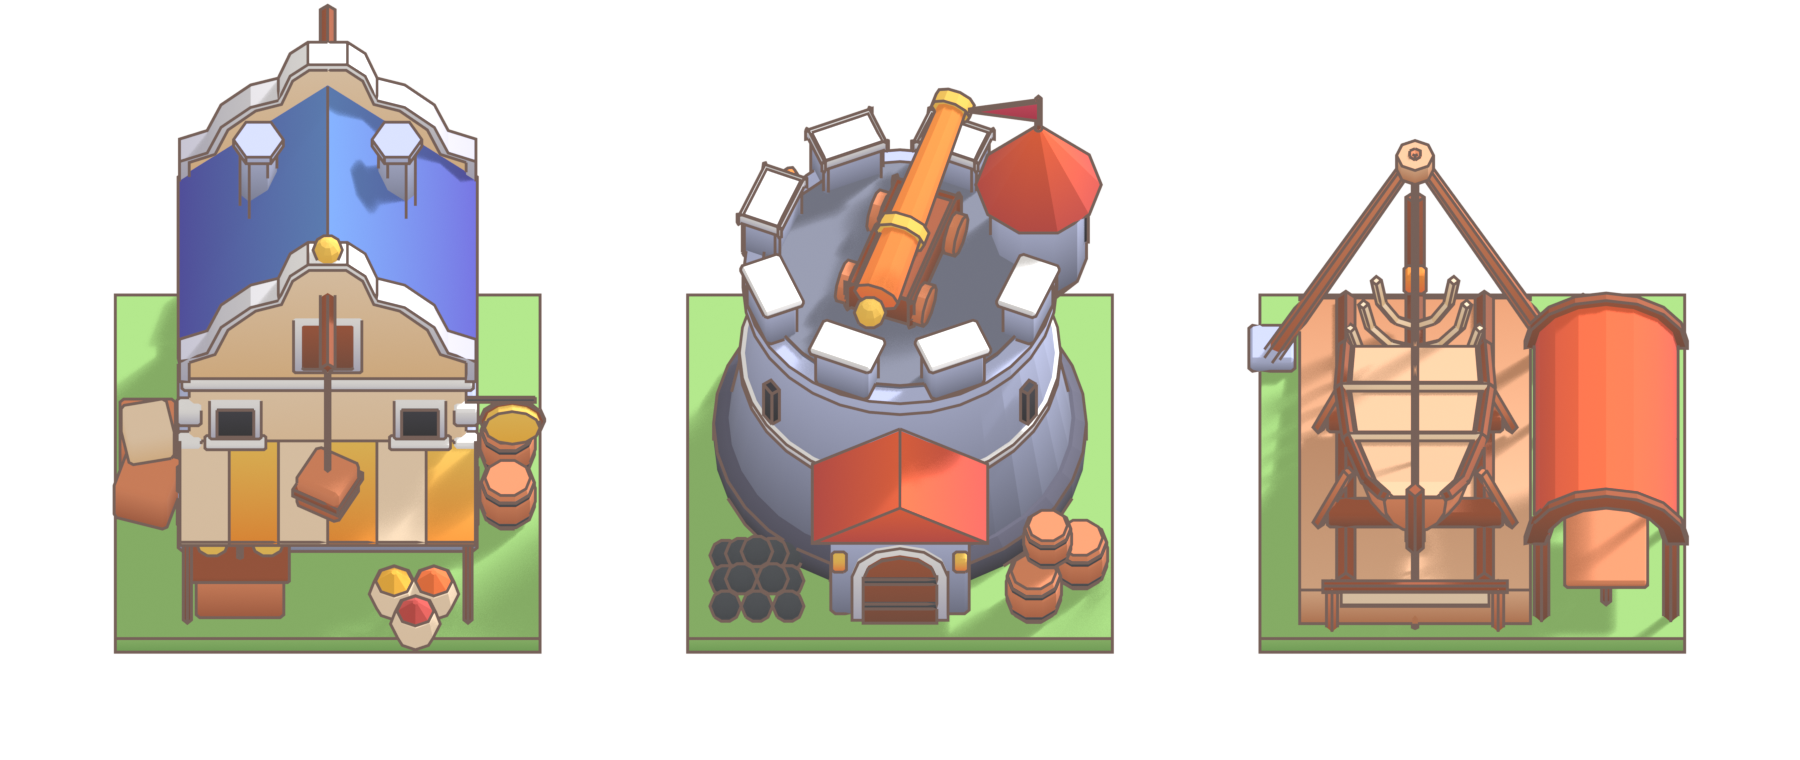
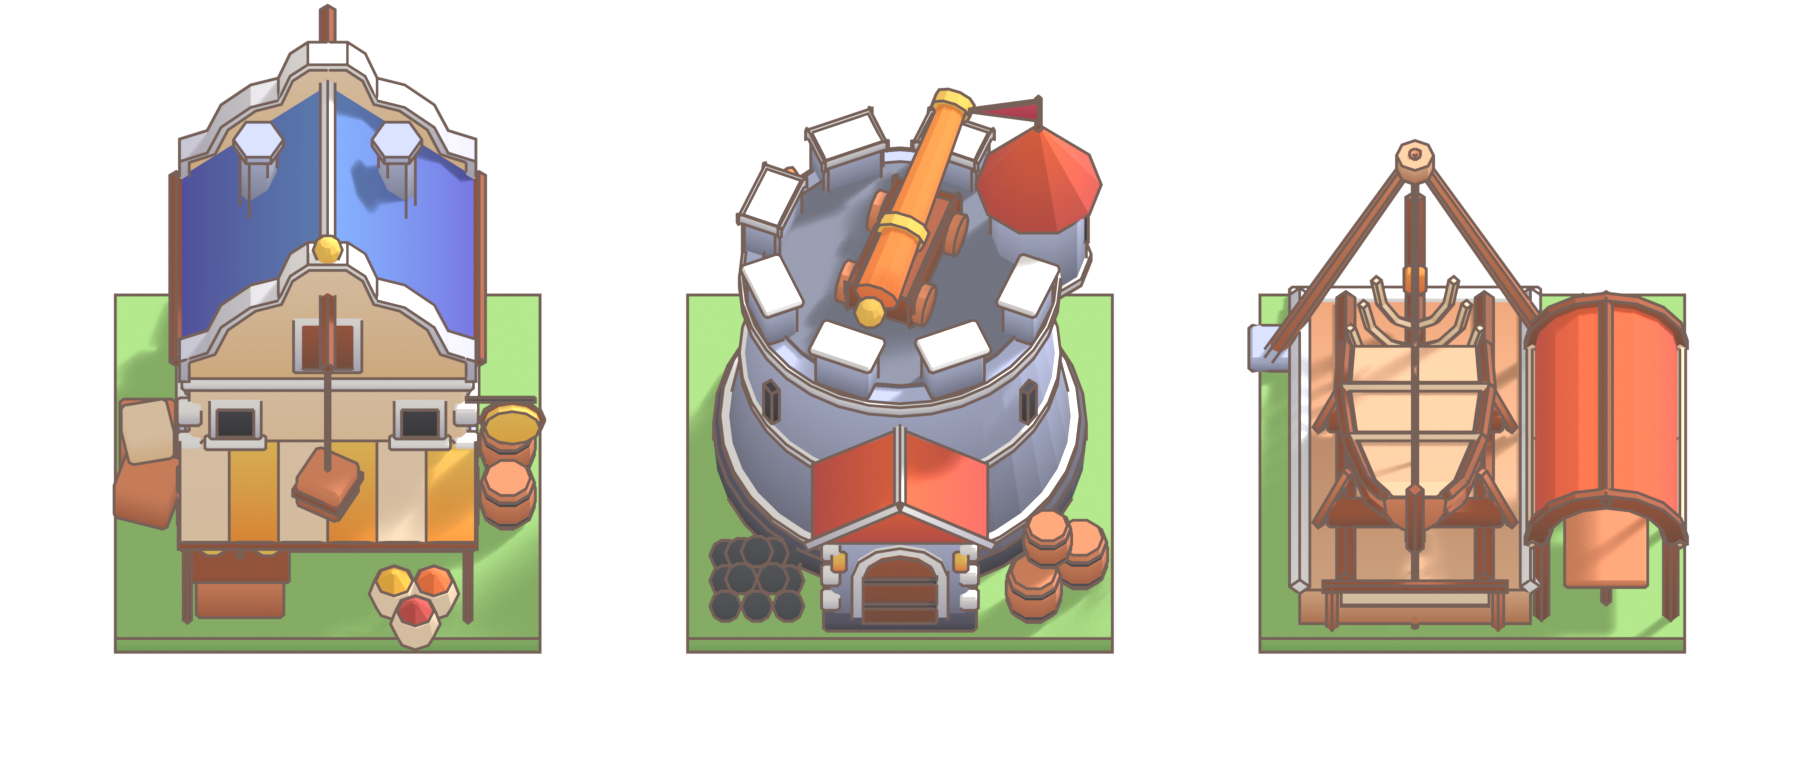
docs: trim the edges of the three V0.8 building blockouts
Pale cornice and plinth cap on the tower, verges and corner stones on its gatehouse, curbs down the slip, a wale on
the hull, ridge boards, eaves, corner stones and framed flank windows on the tradehouse. Same-camera before/after in
docs/art/blockouts/facilities/.

diff --git a/scripts/blender/blockout-facilities.py b/scripts/blender/blockout-facilities.py
@@ -133,6 +133,13 @@ def repairyard(cx):
         box(f"{n}-cradle{k}", (hx, slope(z) + 0.3, z), (1.9, 0.26, 0.24), "woodDark", bevel=0.03)
         for s in (-1, 1):
             beam(f"{n}-shore{k}{s}", (hx + s * 1.05, slope(z) + 0.1, z), (hx + s * 0.72, slope(z) + 1.05, z), 0.12, "wood", sides=4)
+    # Trims: a pale stone curb down each edge of the slip, a dark wale along the hull, a ridge board on the shed.
+    for s in (-1, 1):
+        beam(f"{n}-curb{s}", (hx + s * 1.25, slope(-2.1) + 0.06, -2.1), (hx + s * 1.25, slope(2.2) + 0.06, 2.2), 0.22, "marble", sides=4)
+        for k in range(len(stations) - 1):
+            (z0, h0, d0), (z1, h1, d1) = stations[k], stations[k + 1]
+            beam(f"{n}-wale{s}{k}", (hx + s * h0 * 0.93, top(z0, d0) - 0.45 * d0, z0), (hx + s * h1 * 0.93, top(z1, d1) - 0.45 * d1, z1), 0.12, "woodDark", sides=4)
+    box(f"{n}-slip-foot", (hx, 0.06, 2.24), (2.72, 0.12, 0.2), "marble", bevel=0.03)
     # Sheerlegs: two raked spars lashed at the head, tackle and hook over the hull.
     head = (hx, 5.0, 0.55)
     for s in (-1, 1):
@@ -152,6 +159,9 @@ def repairyard(cx):
         for k, z in enumerate((-2.0, -0.8, 0.4)):
             beam(f"{n}-post{s}{k}", (sx + s * (r - 0.08), 0.0, z), (sx + s * (r - 0.08), 1.62, z), 0.16, "woodDark", sides=4)
         beam(f"{n}-plate{s}", (sx + s * (r - 0.08), 1.58, -2.1), (sx + s * (r - 0.08), 1.58, 0.5), 0.16, "wood", sides=4)
+    beam(f"{n}-ridge", (sx, 1.55 + r + 0.03, -2.18), (sx, 1.55 + r + 0.03, 0.58), 0.14, "woodDark", sides=4)
+    for s in (-1, 1):
+        beam(f"{n}-eave{s}", (sx + s * (r + 0.02), 1.56, -2.18), (sx + s * (r + 0.02), 1.56, 0.58), 0.12, "plaster", sides=4)
     box(f"{n}-bench", (sx, 0.42, -1.3), (0.9, 0.12, 1.2), "wood", bevel=0.03)
     for k, z in enumerate((-1.8, -0.8)):
         beam(f"{n}-leg-b{k}", (sx, 0.0, z), (sx, 0.4, z), 0.1, "woodDark", sides=4)
@@ -175,6 +185,9 @@ def armory(cx):
     lathe(f"x-{n}-tower", (cx, cz), [(1.86, 0.4), (1.52, 2.7), (1.7, 2.82), (1.7, 3.02), (1.6, 3.02)], "stone", sides=32)
     lathe(f"{n}-band", (cx, cz), [(1.74, 1.5), (1.74, 1.62)], "marble", sides=32)
     lathe(f"{n}-deck", (cx, cz), [(1.5, 3.0), (1.5, 3.08)], "slate", sides=32)
+    # Trims: a pale cornice under the parapet and a pale rim round the gun deck.
+    lathe(f"{n}-cornice", (cx, cz), [(1.74, 2.84), (1.74, 3.0)], "marble", sides=32)
+    lathe(f"{n}-plinth-cap", (cx, cz), [(1.95, 0.38), (1.95, 0.46)], "marble", sides=32)
     # Parapet with gun ports: eight merlons with light caps.
     for k in range(8):
         a = math.radians(22.5 + 45 * k)
@@ -206,12 +219,20 @@ def armory(cx):
         box(f"{n}-strap{k}", (cx, y, gz + 0.85), (0.8, 0.09, 0.04), "iron", bevel=0.0)
     for s in (-1, 1):
         box(f"{n}-lamp{s}", (cx + s * 0.66, 1.3, gz + 0.82), (0.16, 0.24, 0.14), "flame", bevel=0.03)
+    # Gatehouse trims: a dark footing, pale corner stones, pale verges along the pediment.
+    box(f"{n}-porch-foot", (cx, 0.13, gz + 0.32), (1.66, 0.26, 1.02), "basalt", bevel=0.04)
+    for s in (-1, 1):
+        for k in range(3):
+            box(f"{n}-porch-quoin{s}{k}", (cx + s * 0.75, 0.5 + k * 0.45, gz + 0.74), (0.2, 0.24, 0.16), "marble", bevel=0.03)
+        beam(f"{n}-verge{s}", (cx + s * 1.0, 1.68, gz + 0.88), (cx, 2.4, gz + 0.88), 0.13, "marble", sides=4)
+    beam(f"{n}-porch-ridge", (cx, 2.38, gz - 0.2), (cx, 2.38, gz + 0.9), 0.12, "marble", sides=4)
     # A lookout turret corbelled off the wall, with a pointed cap and the owner's pennant.
     tx, tz = cx - 1.5, cz - 0.55
     lathe(f"{n}-corbel", (tx, tz), [(0.2, 2.0), (0.52, 2.6)], "stone", sides=10)
     lathe(f"{n}-turret", (tx, tz), [(0.52, 2.6), (0.52, 3.9)], "stone", sides=10)
     lathe(f"{n}-turret-rim", (tx, tz), [(0.6, 3.86), (0.6, 3.98)], "marble", sides=10)
     lathe(f"{n}-turret-cap", (tx, tz), [(0.68, 3.96), (0.04, 5.0)], "roofRed", sides=10)
+    lathe(f"{n}-turret-foot", (tx, tz), [(0.57, 2.56), (0.57, 2.68)], "marble", sides=10)
     beam(f"{n}-pole", (tx, 4.9, tz), (tx, 5.55, tz), 0.06, "woodDark", sides=4)
     extrude_z(f"{n}-pennant", [(tx, 5.5), (tx + 0.75, 5.33), (tx, 5.16)], tz - 0.02, tz + 0.02, "pennant")
     box(f"{n}-slit", (tx - 0.5, 3.25, tz), (0.08, 0.5, 0.14), "dark", bevel=0.0)
@@ -252,6 +273,18 @@ def tradehouse(cx):
     for s in (-1, 1):
         lathe(f"x-{n}-chimney{s}", (cx + s * 0.75, -0.9), [(0.2, base + 0.5), (0.2, base + 1.55), (0.27, base + 1.6), (0.27, base + 1.72)], "stone", sides=6)
     ball(f"{n}-finial", (cx, base + 2.22, -0.4 + d - 0.11), 0.16, "gold")
+    # Trims: corner stones at the back corners too, a pale ridge, dark eaves boards, framed windows on both flanks.
+    for s in (-1, 1):
+        for k in range(4):
+            box(f"{n}-quoin-b{s}{k}", (cx + s * w, 0.6 + k * 0.62, -0.4 - d), (0.26, 0.3, 0.2), "marble", bevel=0.03)
+        beam(f"{n}-eaves{s}", (cx + s * (w + 0.14), base + 0.03, -0.4 - d + 0.2), (cx + s * (w + 0.14), base + 0.03, -0.4 + d - 0.2), 0.14, "woodDark", sides=4)
+        for k, z in enumerate((-1.0, 0.2)):
+            box(f"{n}-flank-frame{s}{k}", (cx + s * w, 2.3, z), (0.08, 0.66, 0.56), "marble", bevel=0.02)
+            box(f"{n}-flank-win{s}{k}", (cx + s * (w + 0.03), 2.3, z), (0.06, 0.5, 0.4), "dark", bevel=0.0)
+            box(f"{n}-flank-sill{s}{k}", (cx + s * (w + 0.06), 1.95, z), (0.16, 0.08, 0.66), "marble", bevel=0.02)
+        box(f"{n}-flank-shutter{s}", (cx + s * (w + 0.02), 1.1, -0.4), (0.08, 0.9, 0.7), "roofBlue", bevel=0.02)
+        box(f"{n}-flank-shutter-frame{s}", (cx + s * w, 1.1, -0.4), (0.08, 1.06, 0.86), "marble", bevel=0.02)
+    beam(f"{n}-ridge", (cx, base + 1.74, -0.4 - d + 0.2), (cx, base + 1.74, -0.4 + d - 0.2), 0.16, "marble", sides=4)
     # Hoist beam at the gable's head with a crate on the hook: what a merchant's house is for.
     fz = -0.4 + d
     beam(f"{n}-hoist", (cx, base + 1.5, fz - 0.3), (cx, base + 1.5, fz + 0.95), 0.16, "woodDark", sides=4)
@@ -274,6 +307,7 @@ def tradehouse(cx):
         mesh_from(f"x-{n}-awning{k}", [(x0, 1.95, fz + 0.02), (x1, 1.95, fz + 0.02), (x1, 1.5, fz + 1.05), (x0, 1.5, fz + 1.05), (x0, 1.89, fz + 0.02), (x1, 1.89, fz + 0.02), (x1, 1.44, fz + 1.05), (x0, 1.44, fz + 1.05)], [[0, 1, 2, 3], [7, 6, 5, 4], [0, 4, 5, 1], [1, 5, 6, 2], [2, 6, 7, 3], [3, 7, 4, 0]], "roofGold" if k % 2 == 0 else "canvas")
     for s in (-1, 1):
         beam(f"{n}-awning-pole{s}", (cx + s * (w + 0.02), 0.0, fz + 1.0), (cx + s * (w + 0.02), 1.48, fz + 1.0), 0.09, "woodDark", sides=4)
+    beam(f"{n}-valance", (cx - w - 0.12, 1.45, fz + 1.06), (cx + w + 0.12, 1.45, fz + 1.06), 0.1, "woodDark", sides=4)
     # Goods out front: crates, spice sacks, cloth, and the scales on the counter.
     box(f"{n}-counter", (cx + 0.95, 0.38, fz + 0.75), (0.95, 0.76, 0.5), "wood", bevel=0.04)
     box(f"{n}-counter-top", (cx + 0.95, 0.79, fz + 0.75), (1.07, 0.08, 0.62), "woodDark", bevel=0.02)
